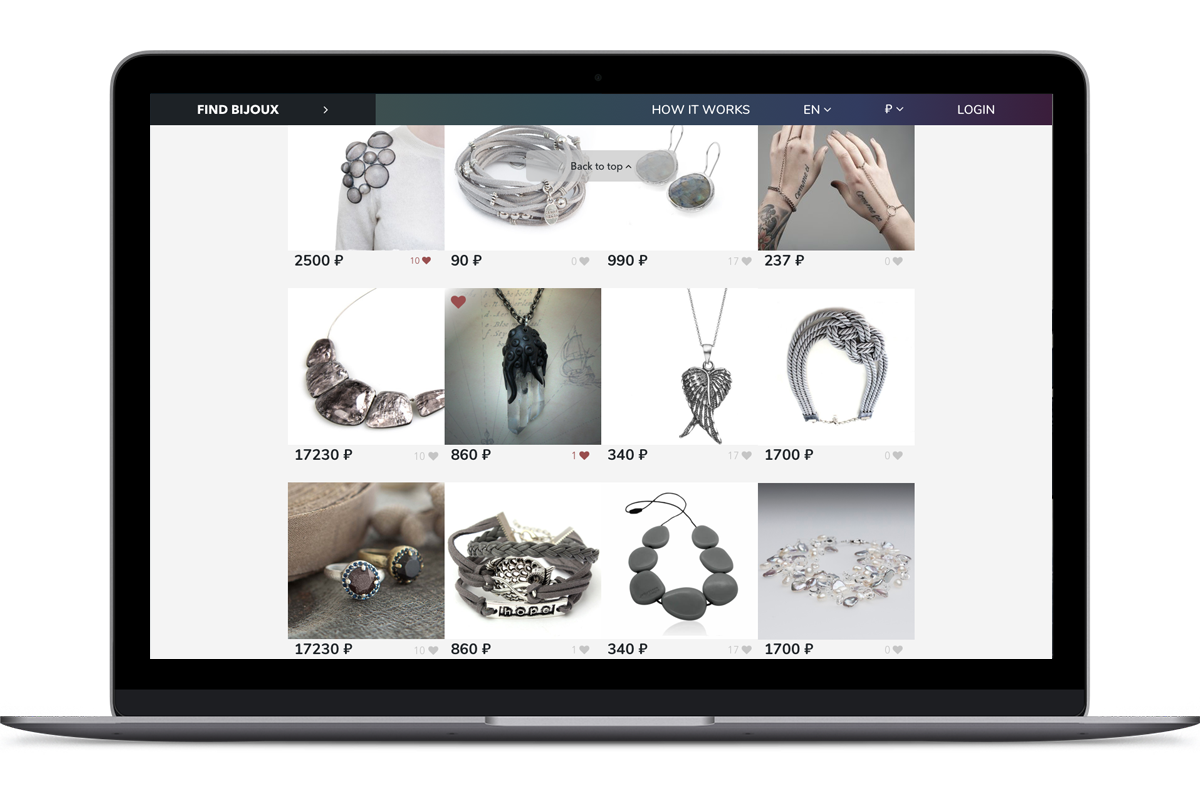
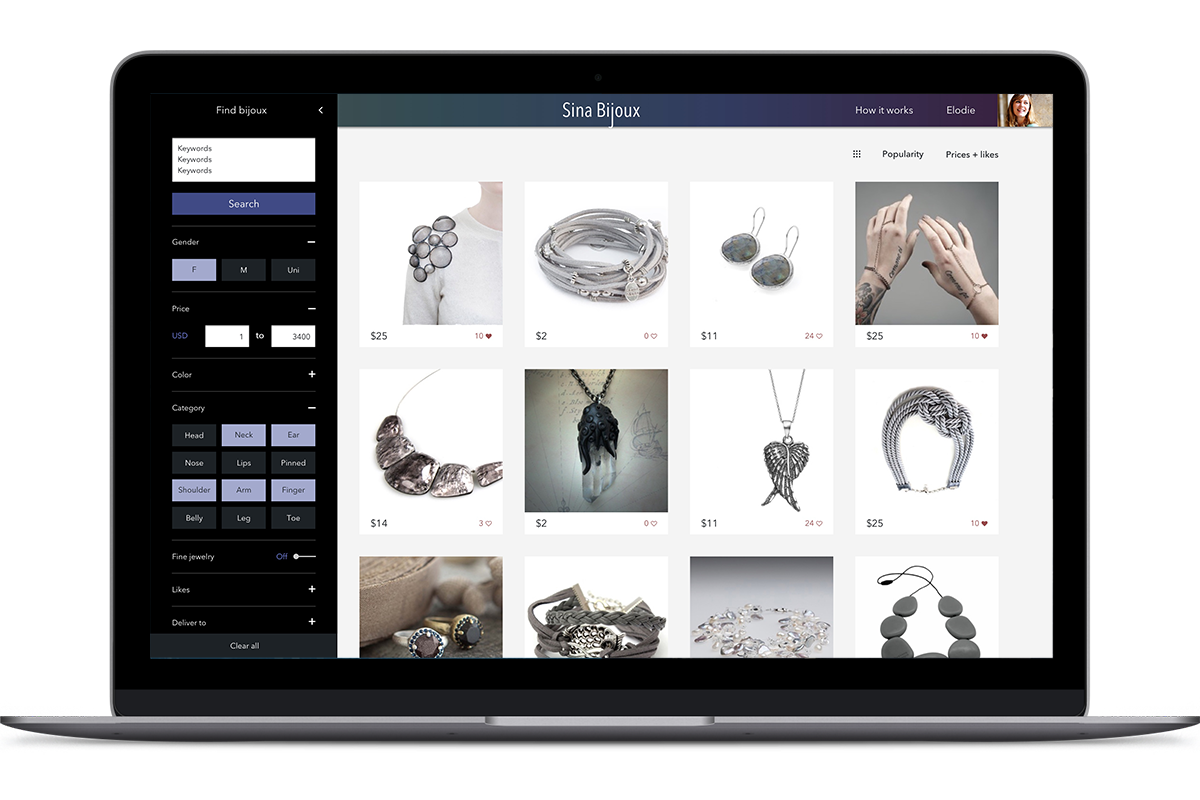
Sina

diff --git a/projects/sina.html b/projects/sina.html
@@ -1,0 +1,136 @@
+<!doctype html>
+<html lang="en">
+  <head>
+    <meta charset="utf-8">
+    <meta http-equiv="X-UA-Compatible" content="IE=edge">
+    <meta name="viewport" content="width=device-width, initial-scale=1">
+    <title>Dee's portfolio: Sina Bijoux</title>
+    <link rel="stylesheet" href="../css/bootstrap.min.css">
+    <link rel="stylesheet" href="../css/styles.css">
+    <link href="https://fonts.googleapis.com/css?family=Cormorant+Garamond:400,300,600" rel="stylesheet" type='text/css'>
+    <link href="https://fonts.googleapis.com/css?family=Muli:200,300,700" rel="stylesheet" type='text/css'>
+  </head>
+
+<body>
+  <header>
+    <nav class="navbar fixed-top px-0 navbar-expand-lg nav-bg">
+      <div class="container">
+        <a class="navbar-brand pl-auto my-auto" href="../index.html">Acia Delilah</a>
+        <button class="navbar-toggler" type="button" data-toggle="collapse" data-target="#navbarSupportedContent" aria-controls="navbarSupportedContent" aria-expanded="false" aria-label="Toggle navigation">
+          <ion-icon name="ios-link"></ion-icon>
+        </button>
+
+        <div class="collapse navbar-collapse ml-auto my-auto" id="navbarSupportedContent">
+          <ul class="navbar-nav ml-auto">
+            <li class="nav-item mr-2">
+              <a target="_blank" class="nav-link" href="http://delilah.ru"><ion-icon name="ios-link"></ion-icon> <span>Photos</span></a></li>
+            <li class="nav-item mr-2">
+              <a target="_blank" class="nav-link" href="https://ru.pinterest.com/acia_delilah/handmade-с/"><ion-icon name="logo-pinterest"></ion-icon> <span>Crafts</span></a></li>
+            <li class="nav-item mr-2">
+              <a target="_blank" class="nav-link" href="https://ru.pinterest.com/acia_delilah/pics-and-words-c"><ion-icon name="logo-pinterest"></ion-icon> <span>Drawings</span></a></li>
+            <li class="nav-item mr-2">
+              <a target="_blank" class="nav-link" href="https://urlgeni.us/instagram/OPB0"><ion-icon name="logo-instagram"></ion-icon></a></li>
+            <li class="nav-item mr-2">
+              <a target="_blank" class="nav-link" href="https://urlgeni.us/facebook/Rh3z"><ion-icon name="logo-facebook"></ion-icon></a></li>
+            <li class="nav-item mr-2">
+              <a target="_blank" class="nav-link" href="mailto:delidance@gmail.com"><ion-icon name="ios-mail"></ion-icon></a></li>
+          </ul>
+        </div>
+      </div>
+    </nav>
+  </header>
+
+<section>
+ <div class="container">
+        <div class="row first-row">
+            <div class="container readable">
+                <h1>Sina Bijoux</h1>
+                <p class='grey'>Interaction design</p>
+                <div class='proj-lead'>
+                  <p>Designing ideas for <a target="_blank" href="http://sina-bijox.com">Sina Bijoux</a> - smart jewelry search among eBay and AliExpress.</p>
+                </div>  
+                <img class='proj-img laptop' src='../images/sina/sina-mu.png'>
+                <h2>Online shopping nightmare</h2> 
+                <p>There are a lot of nice and cheap stuff from Asia and South East Asia online. But search among them is a nightmare. Skip to the next paragraph, if you know what I’m about.</p>
+
+                <p>First, because of poor localizations. I collect screenshots of amazing translations to Russian, such as notification ‘You should login before screaming, new user, registration shrimp account’.</p>  
+
+                <p>Second, because of that specific understanding of both marketing and search engines sellers have. An item usually has all possible related words in it’s title, photos may belong to some brand (in case of a replica), description starts with photos of other seller’s items. Categories (which can be not that comfortable on the platform itself) can be ignored or even wrong.
+                </p>
+                <h2>What is Sina</h2> 
+                <p>Sina is a search engine by <a href=“https://www.facebook.com/amed.bmstu”>Alexander Medvedev</a> that uses APIs of eBay and AliExpress platforms and applies image recognition to the search results. For now the only type of items is bijouterie.</p>
+
+                <p>Sina Bijoux doesn’t sell things. I just helps to find bijoux and redirects to the original listing.</p>
+
+                <img class='proj-img-small' src='../images/sina/sina-phone.png'>
+
+                <h2>Little search UI bijoux</h2>
+                <p>I collected some wishes and pain points about online shopping in case of wide choice in general and jewelry-specific.</p>
+                <p>Based on them Sina can:</p>
+                <ul>
+                  <li><b>Sort items by body parts</b> they supposed to be putted on - instead of complicated categories. What is the name for a ring connected to a bracelet? No idea. But you definitely wear it on your wrist and finger.</li>
+                  <li><b>Hide prices</b>, if you like people to pick gifts for themselves.</li>
+                  <li><b>Hide fine jewelry</b> - or more pointedly - everything pretending to be fine jewelry. You never can be sure until you have the actual item in your hands. It’s the default, you can turn “fine jewelry” on.</li>
+                  <li><b>Keep same items in front of you</b> when you change filters (instead of getting you back to top) - if possible.</li>
+                  <li><b>Remember search parameters</b> from your previous search.</li>
+                </ul>
+
+                <h2>Screens</h2>
+                <p>There are trends. Like owls. Or music notation symbols. Or some TV-shows. We can parse them, make picks and feature on homepage:</p>
+
+                <img class='proj-img-small proj-img-w-shadow' src='../images/sina/home.png'>
+                <p class="mt-5">Sina collects popular searches, but if you weren't lucky you may need to wait a while. Search, filters and loading:</p>
+
+                <div id="search-car" class="carousel slide" data-interval="false">
+
+                  <!-- Wrapper for slides -->
+                  <div class="carousel-inner">
+
+                    <div class="item carousel-item">
+                      <img src="../images/sina/search.jpg">
+                    </div>
+
+                    <div class="item active carousel-item">
+                      <img src="../images/sina/search-display.png">
+                    </div>
+
+                    <div class="item carousel-item">
+                      <img src="../images/sina/search-hidden.png">
+                    </div>
+
+                    <div class="item carousel-item">
+                      <img src="../images/sina/search-loading.png">
+                    </div>
+
+                  </div>
+
+                    <!-- Indicators -->
+                  <ol class="carousel-indicators">
+                    <li data-target="#search-car" data-slide-to="0"><img src="../images/sina/search.jpg"></li>
+                    <li data-target="#search-car" data-slide-to="1" class="active"><img src="../images/sina/search-display.png"></li>
+                    <li data-target="#search-car" data-slide-to="2"><img src="../images/sina/search-hidden.png"></li>
+                    <li data-target="#search-car" data-slide-to="3"><img src="../images/sina/search-loading.png"></li>
+                  </ol>
+
+                </div>
+
+                <p class="mt-5">You need to sign up only if you want to like items and so create your collection. Collection can be shared. Besides login details a user can set name and photo. Gender and 'deliver to' will be remembered from the last search.</p>
+
+                <img class='proj-img-small proj-img-w-shadow mb-5' src='../images/sina/profile.png'>
+
+
+              <hr/>
+              <img class='proj-img-small mt-5' src='../images/sina/sina-photo-mu.png'>
+            </div>
+        </div>
+    </div>
+</section>
+
+  <!-- jQuery (Bootstrap JS plugins depend on it) -->
+  
+  <script src="https://unpkg.com/ionicons@4.3.0/dist/ionicons.js"></script>
+  <script src="../js/jquery-2.1.4.min.js"></script>
+  <script src="../js/bootstrap.min.js"></script>
+  <script src="../js/script.js"></script>
+</body>
+</html>

diff --git a/index.html b/index.html
@@ -67,6 +67,31 @@
         </div>
       </div>
         <div class="row row-eq-height">
+
+            <div class="gallery_product col-lg-3 col-md-4 col-sm-4 col-xs-6 filter uix">
+                <div class="inactive-item">
+                  <!-- <a href="#">-->
+                    <img class='proj-preview' src="images/previews/ndl-tools.png">
+                    <div class="proj-title-container">
+                      <p class='proj-title'>Neurodata Lab Tools</p>
+                      <p class='category grey'>Interaction design</p>
+                    </div>
+                  <!--</a>-->
+                </div>
+            </div>
+
+            <div class="gallery_product col-lg-3 col-md-4 col-sm-4 col-xs-6 filter uix">
+                <div class="inactive-item">
+                  <!-- <a href="#">-->
+                    <img class='proj-preview' src="images/previews/abyss.png">
+                    <div class="proj-title-container">
+                      <p class='proj-title'>The Abyss Platform MVP</p>
+                      <p class='category grey'>Interaction design</p>
+                    </div>
+                  <!--</a>-->
+                </div>
+            </div>
+
             <div class="gallery_product col-lg-3 col-md-4 col-sm-4 col-xs-6 filter uix">
                 <a href="projects/emotionminer.html">
                     <img class='proj-preview' src="images/previews/nem.png">
@@ -188,15 +213,13 @@
             </div>
 
             <div class="gallery_product col-lg-3 col-md-4 col-sm-4 col-xs-6 filter uix">
-              <div class="inactive-item">
-                  <!-- <a href="#">-->
+                  <a href="projects/sina.html">
                     <img class='proj-preview' src="images/previews/sina.png">
                     <div class="proj-title-container">
                       <p class='proj-title'>Sina Bijoux</p>
                       <p class='category grey'>Interaction design</p>
                     </div>
-                  <!-- </a>-->
-              </div>
+                  </a>
             </div>
 
 

diff --git a/css/styles.css b/css/styles.css
@@ -301,6 +301,10 @@ p.category {
   width: 100%;
 }
 
+.proj-img-w-shadow {
+  box-shadow: rgba(0, 0, 0, 0.2) 0px 2px 4px 0px, rgba(0, 0, 0, 0.188235) 0px 3px 10px 0px;
+}
+
 .proj-img-mobile {
   margin-bottom: 15px;
   width: 100%;
